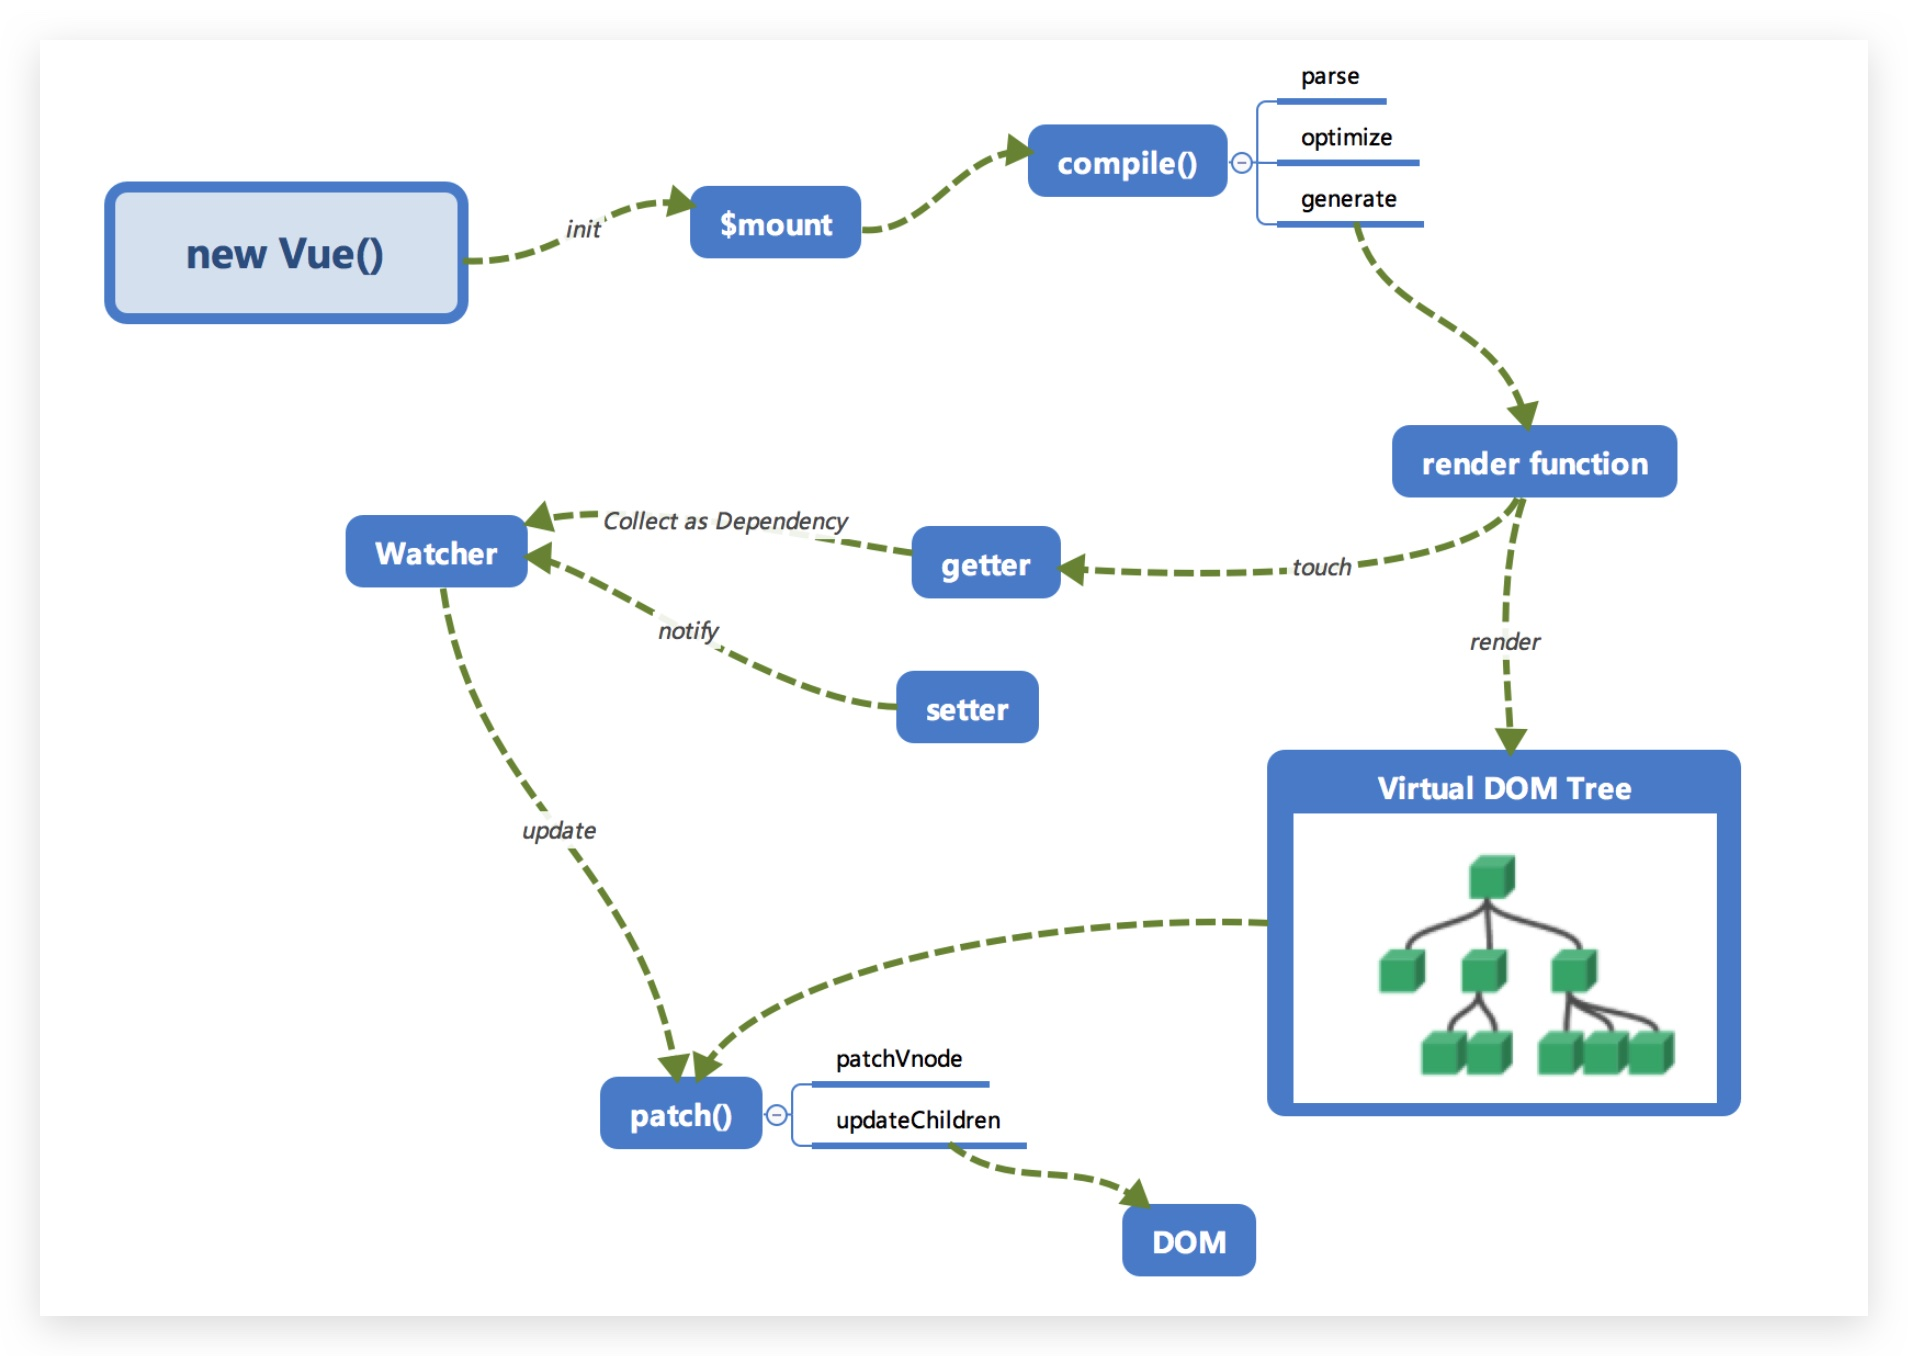
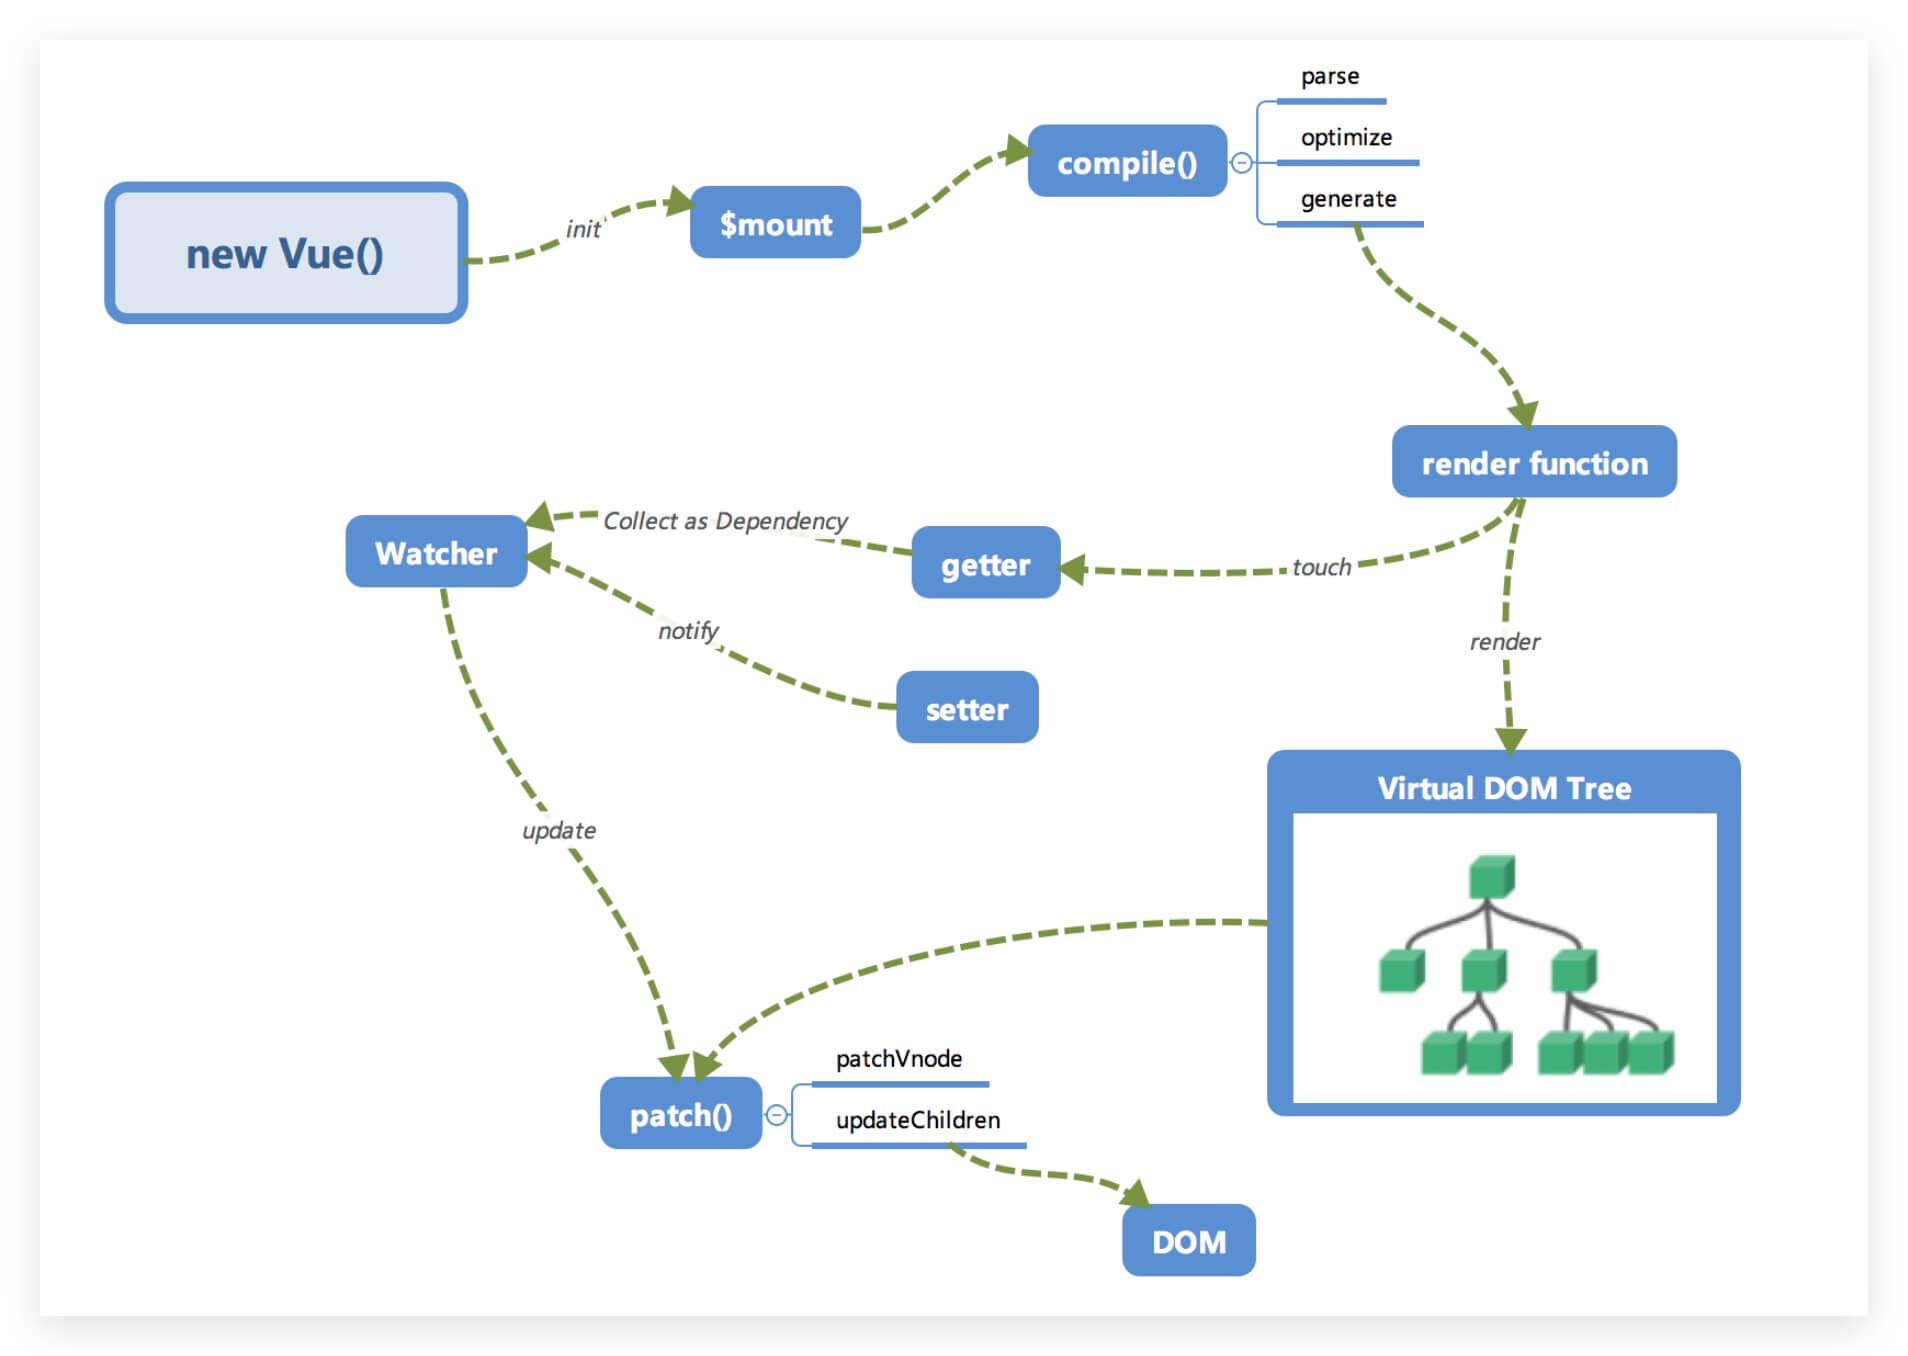
add image

diff --git a/README.md b/README.md
@@ -23,4 +23,4 @@
 6. [axios 的拦截器](https://github.com/dirkhe1051931999/hjBlog/tree/master/blog-http/lessons/01.md)
 7. [vue2.4 浅析](https://github.com/dirkhe1051931999/hjBlog/tree/master/blog-vue/lessons/02.md)
 8. vue 源码学习系列
-   1. [vue 源码学习第一天](https://github.com/dirkhe1051931999/hjBlog/tree/master/blog-vue-sourcecode-study/lessons/01.md)
+   - [vue 源码学习第一天](https://github.com/dirkhe1051931999/hjBlog/tree/master/blog-vue-sourcecode-study/lessons/01.md)

diff --git a/blog-vue-sourcecode-study/lessons/01.md b/blog-vue-sourcecode-study/lessons/01.md
@@ -2,8 +2,9 @@
 
 ### vue 内部运行机制
 
-`图片来自[染陌同学]('https://github.com/answershuto')`
-<!-- ![vue 内部运行机制] -->
+> `图片来自[染陌同学](https://github.com/answershuto)`
+
+![vue 内部运行机制](https://github.com/dirkhe1051931999/hjBlog/blob/master/blog-vue-sourcecode-study/screenshot/1.jpg)
 
 ### new Vue()后有几个过程
 
